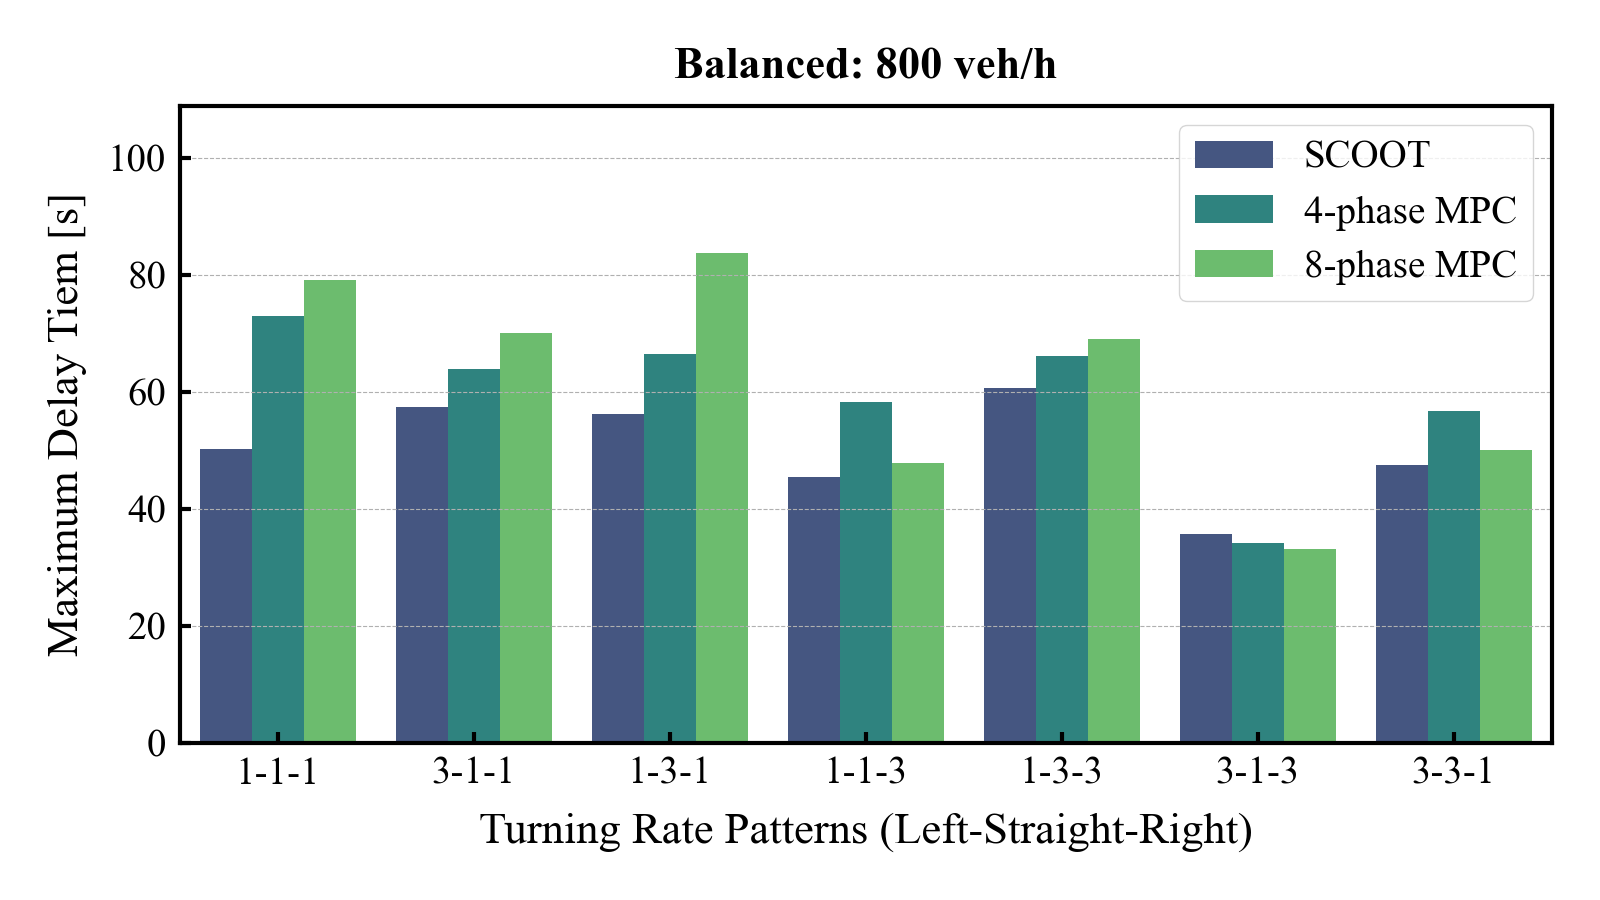
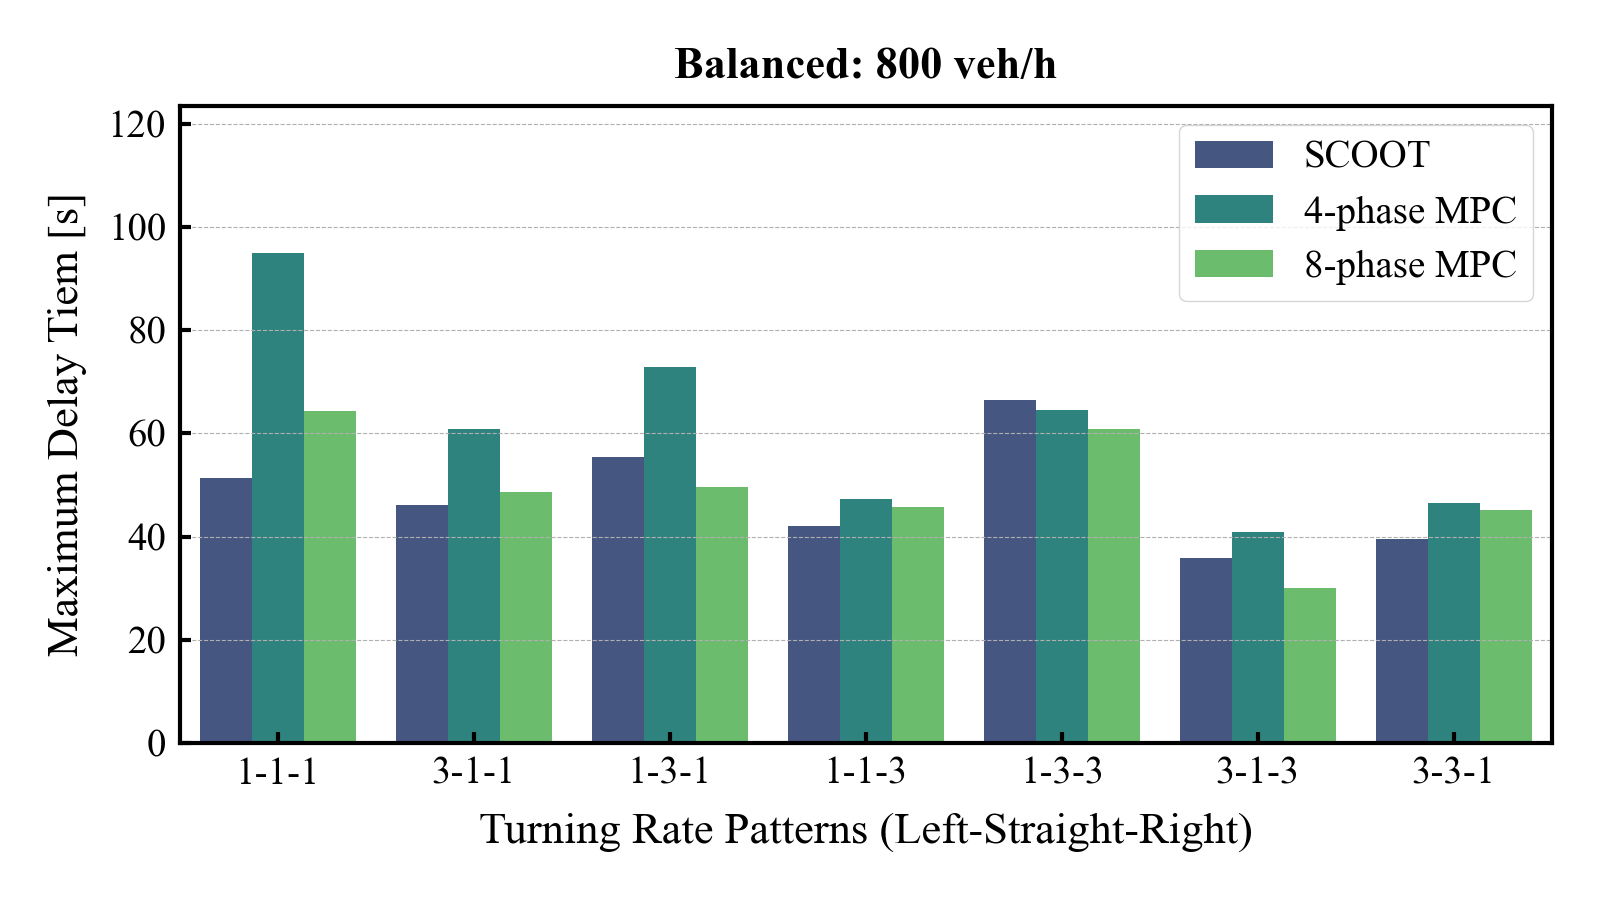
135-実験を保存

diff --git a/misc/analysis/performance_metric_bar_plots/plot.py b/misc/analysis/performance_metric_bar_plots/plot.py
@@ -81,8 +81,10 @@ for simulator_dir_path in layout_dir_path.rglob('simulator_*'):
                     time_series_df['phase_change'] = time_series_df['phase'].ne(time_series_df['phase'].shift(1))
                     time_series_df.loc[0, 'phase_change'] = False
                     performance_value = time_series_df['phase_change'].sum()
-                elif performance_metric in ['queue_avg', 'queue_max', 'delay_avg', 'delay_max', 'speed_avg']:
+                elif performance_metric in ['queue_avg', 'queue_max', 'delay_max', 'speed_avg']:
                     performance_value = time_series_df[performance_metric].dropna().mean()       
+                elif performance_metric == 'delay_avg':
+                    performance_value = time_series_df[f"delay_avg_{config_yaml['target']['delay_type']}"].dropna().mean()
                 else:
                     raise NotImplementedError(f"Not supported performance metric: {performance_metric}")
                 
@@ -120,8 +122,10 @@ for simulator_dir_path in layout_dir_path.rglob('simulator_*'):
                     time_series_df['phase_change'] = time_series_df['phase'].ne(time_series_df['phase'].shift(1))
                     time_series_df.loc[0, 'phase_change'] = False
                     performance_value = time_series_df['phase_change'].sum()
-                elif performance_metric in ['queue_avg', 'queue_max', 'delay_avg', 'delay_max', 'speed_avg']:
+                elif performance_metric in ['queue_avg', 'queue_max', 'delay_max', 'speed_avg']:
                     performance_value = time_series_df[performance_metric].dropna().mean()
+                elif performance_metric == 'delay_avg':
+                    performance_value = time_series_df[f"delay_avg_{config_yaml['target']['delay_type']}"].dropna().mean()
                 else:
                     raise NotImplementedError(f"Not supported performance metric: {performance_metric}")
                 
